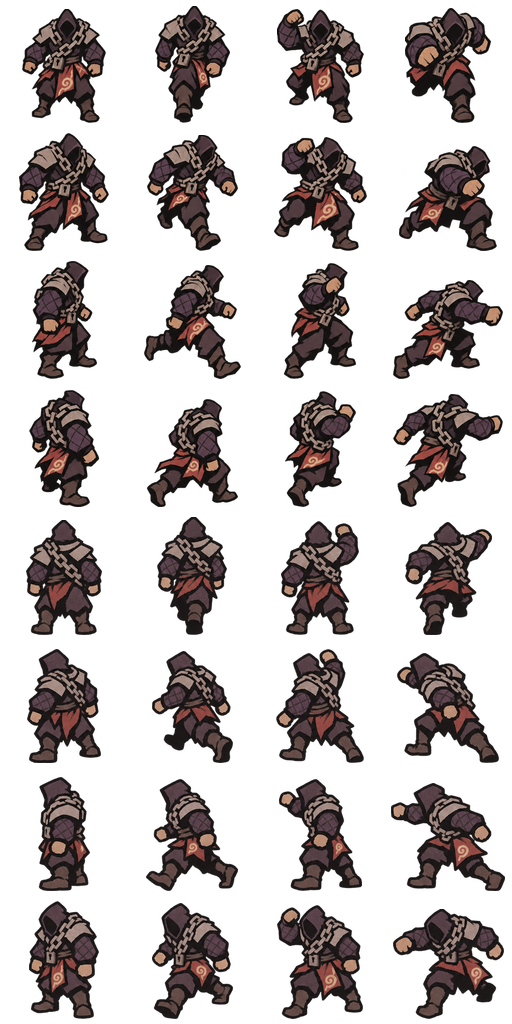
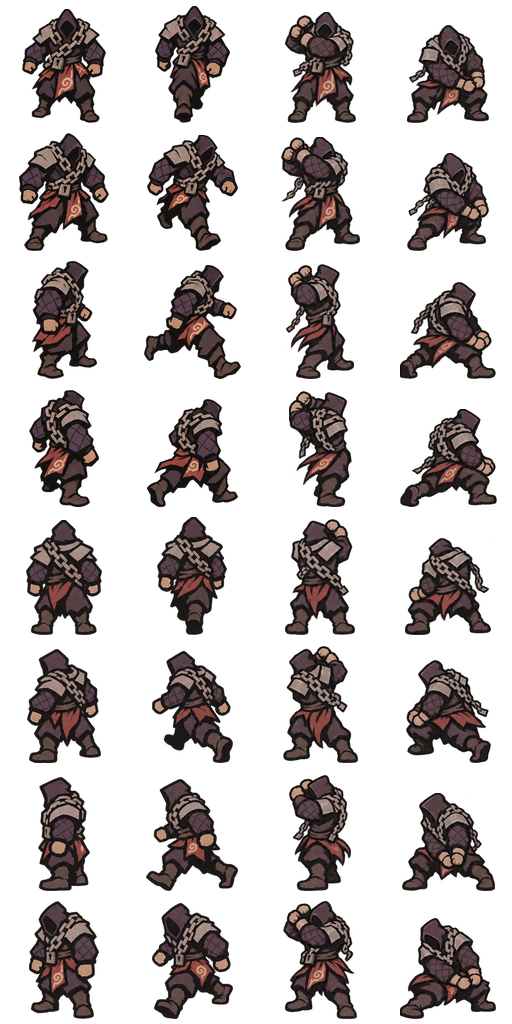
Restore the Chain Warden lash and preserve the Inquisitor art study

Changed region(s): [[0.75, 0.0, 1.0, 1.0], [0.5312, 0.0, 0.7188, 1.0]]

diff --git a/client-unity/UnityProject/Assets/Scripts/Presentation/StormInkManacles.cs b/client-unity/UnityProject/Assets/Scripts/Presentation/StormInkManacles.cs
@@ -1,0 +1,101 @@
+using UnityEngine;
+
+namespace Roguehalla.Client
+{
+    /// <summary>Draws the Warden's weighted chain from the painted hands on its existing melee timeline.</summary>
+    internal sealed class StormInkManacles
+    {
+        const int LinkCount = 9;
+        static Sprite _iron;
+        readonly Transform _root;
+        readonly SpriteRenderer[] _links = new SpriteRenderer[LinkCount];
+
+        public StormInkManacles(Transform parent, Material material)
+        {
+            _root = new GameObject("Warden manacle lash").transform;
+            _root.SetParent(parent, false);
+            if (_iron == null) _iron = PaintLink();
+            for (int i = 0; i < LinkCount; i++)
+            {
+                var link = new GameObject(i == LinkCount - 1 ? "Weighted cuff" : "Iron link " + i);
+                link.transform.SetParent(_root, false);
+                var renderer = link.AddComponent<SpriteRenderer>();
+                renderer.sprite = _iron;
+                renderer.sharedMaterial = material;
+                _links[i] = renderer;
+            }
+        }
+
+        public void Hide() { if (_root.gameObject.activeSelf) _root.gameObject.SetActive(false); }
+
+        public void Draw(Vector2 palm, Vector2 otherPalm, int row, StormInkWeaponMotion.Phase phase,
+            float progress, bool reduced, int order, float alpha)
+        {
+            if (!_root.gameObject.activeSelf) _root.gameObject.SetActive(true);
+            float yaw = (2 - row) * Mathf.PI / 4f;
+            var forward = new Vector2(Mathf.Cos(yaw), -Mathf.Sin(yaw) * ArenaView.GroundSquash);
+            var across = new Vector2(-Mathf.Sin(yaw), -Mathf.Cos(yaw) * ArenaView.GroundSquash);
+            float t = Mathf.Clamp01(progress);
+            var hang = otherPalm + new Vector2(0, -.12f);
+            var lash = palm + forward * .96f + across * .17f - Vector2.up * .07f;
+            var tip = hang;
+            var bend = (palm + tip) * .5f - Vector2.up * .49f;
+            switch (phase)
+            {
+                case StormInkWeaponMotion.Phase.Ready:
+                    tip = palm - forward * .26f - across * .37f + Vector2.up * (.15f + .12f * t);
+                    bend = palm - across * .53f - Vector2.up * .24f;
+                    break;
+                case StormInkWeaponMotion.Phase.Strike:
+                    tip = lash;
+                    bend = (palm + tip) * .5f - across * (reduced ? .08f : .32f * (1f - t));
+                    break;
+                case StormInkWeaponMotion.Phase.Follow:
+                    tip = Vector2.Lerp(lash, hang, Mathf.SmoothStep(0, 1, t));
+                    bend = (palm + tip) * .5f + across * (.16f * (1f - t)) - Vector2.up * (.48f * t);
+                    break;
+            }
+            int baseOrder = order + (row >= 3 && row <= 5 ? -1 : 3);
+            Vector2 start = palm;
+            for (int i = 0; i < LinkCount; i++)
+            {
+                float u = (i + 1f) / LinkCount;
+                var end = Vector2.Lerp(Vector2.Lerp(palm, bend, u), Vector2.Lerp(bend, tip, u), u);
+                var axis = end - start;
+                bool cuff = i == LinkCount - 1;
+                var link = _links[i];
+                link.sortingOrder = baseOrder + (i % 2);
+                link.color = new Color(1, 1, 1, alpha);
+                link.transform.localPosition = (start + end) * .5f;
+                link.transform.localRotation = Quaternion.Euler(0, 0, Mathf.Atan2(axis.y, axis.x) * Mathf.Rad2Deg);
+                link.transform.localScale = new Vector3(Mathf.Max(cuff ? .18f : .064f, axis.magnitude * 1.32f),
+                    cuff ? .139f : i % 2 == 0 ? .081f : .045f, 1);
+                start = end;
+            }
+        }
+
+        // Flat iron faces, a broken cold edge and an ink-black opening survive at gameplay scale.
+        static Sprite PaintLink()
+        {
+            const int n = 64;
+            var texture = new Texture2D(n, n, TextureFormat.RGBA32, false) { name = "Warden iron link",
+                filterMode = FilterMode.Bilinear, wrapMode = TextureWrapMode.Clamp, hideFlags = HideFlags.HideAndDontSave };
+            var pixels = new Color32[n * n];
+            for (int y = 0; y < n; y++)
+            for (int x = 0; x < n; x++)
+            {
+                float u = (x + .5f) * 2 / n - 1, v = (y + .5f) * 2 / n - 1;
+                float d = Mathf.Max(Mathf.Abs(v) * 1.12f, Mathf.Abs(u) * .94f + Mathf.Abs(v) * .34f);
+                if (d > .96f || d < .37f) continue;
+                Color32 ink = new Color32(31, 24, 34, 255), iron = new Color32(156, 142, 151, 255);
+                bool edge = v > .13f && u > -.72f && u < .49f && (u > -.17f || u < -.25f);
+                pixels[y * n + x] = d < .48f || d > .83f ? ink : edge ? new Color32(222, 195, 158, 255) : iron;
+            }
+            texture.SetPixels32(pixels); texture.Apply(false, true);
+            var sprite = Sprite.Create(texture, new Rect(0, 0, n, n), new Vector2(.5f, .5f), n);
+            sprite.name = texture.name;
+            sprite.hideFlags = HideFlags.HideAndDontSave;
+            return sprite;
+        }
+    }
+}

diff --git a/client-unity/UnityProject/Assets/Tests/Editor/StormInkManaclesEditModeTests.cs b/client-unity/UnityProject/Assets/Tests/Editor/StormInkManaclesEditModeTests.cs
@@ -1,0 +1,39 @@
+using NUnit.Framework;
+using Roguehalla.Net;
+using Roguehalla.Net.Protocol;
+using UnityEngine;
+
+namespace Roguehalla.Client.Tests
+{
+    public sealed class StormInkManaclesEditModeTests
+    {
+        [Test]
+        public void AConfirmedWardenLashMovesItsCuffAndLeavesTheSharedSwordAtTheHip()
+        {
+            var root = new GameObject("Warden test");
+            try
+            {
+                var presenter = new SpriteActorPresenter(root.transform, Resources.Load<ShowcaseCatalog>("Showcase/Catalog"));
+                void Show(MobTypeId type, ActorStatus state) => presenter.Present(17, 32, 32, 0, 100, FactionId.Sentenced,
+                    state, WeaponId.Sword, ActorKind.RegionalMob, type, 0, 0, false);
+                presenter.Begin();
+                Show(MobTypeId.ChainWarden, ActorStatus.Alive);
+                var actor = root.transform.GetChild(0);
+                var chain = actor.Find("Warden manacle lash");
+                Assert.IsNotNull(chain);
+                var cuff = chain.Find("Weighted cuff");
+                Assert.AreEqual(9, chain.childCount);
+                var rest = cuff.position;
+                presenter.ConfirmedCue(17, FxKind.Swing, WeaponId.Sword, 0);
+                Show(MobTypeId.ChainWarden, ActorStatus.Alive);
+                Assert.Greater(cuff.position.x - rest.x, .5f, "Facing east releases the weighted cuff into the melee arc");
+                var sword = actor.Find("Equipped weapon cue").GetComponent<SpriteRenderer>();
+                Assert.AreSame(StormInkWeaponArt.Get(WeaponId.Sword, 2), sword.sprite);
+                Assert.Less(sword.sortingOrder, actor.Find("Authored character").GetComponent<SpriteRenderer>().sortingOrder);
+                Show(MobTypeId.Bailiff, ActorStatus.Alive);
+                Assert.IsFalse(chain.gameObject.activeSelf, "A reused actor cannot retain the Warden chain");
+            }
+            finally { Object.DestroyImmediate(root); }
+        }
+    }
+}

diff --git a/client-unity/UnityProject/Assets/Scripts/Presentation/SpriteActorPresenter.CombatCues.cs b/client-unity/UnityProject/Assets/Scripts/Presentation/SpriteActorPresenter.CombatCues.cs
@@ -39,6 +39,29 @@ namespace Roguehalla.Client
             };
         }
 
+        static void PresentManacles(Art a, bool tracked, StormInkWeaponMotion.Phase phase, float progress,
+            float facing, bool reduced, int order)
+        {
+            if (!tracked || a.MobType != MobTypeId.ChainWarden ||
+                !TryWeaponHand(a, false, out var primary) || !TryWeaponHand(a, true, out var support))
+            {
+                a.Manacles?.Hide();
+                return;
+            }
+            int row = StormInkActors.PoseRowForFacing(facing);
+            // The issued sword stays at the belt. The chain the Warden wears is the moving weapon.
+            float side = row >= 4 && row <= 6 ? 1 : -1;
+            var hip = BodySocket(a.Body, new Vector2(.5f + .12f * side, .44f));
+            var rotation = Quaternion.Euler(0, 0, side * 112f);
+            var socket = SpriteSocket(a.Weapon.sprite, StormInkWeaponArt.Grip(WeaponId.Sword, row), a.Weapon.transform.localScale);
+            a.Weapon.transform.localPosition = hip - rotation * socket;
+            a.Weapon.transform.localRotation = rotation;
+            a.Weapon.sortingOrder = order - 2;
+            a.Manacles ??= new StormInkManacles(a.Root.transform, a.Weapon.sharedMaterial);
+            a.Manacles.Draw(BodySocket(a.Body, primary), BodySocket(a.Body, support), row, phase, progress,
+                reduced, order, a.Weapon.color.a);
+        }
+
         static float EquipmentScale(Art a)
         {
             // A bite-mounted focus must clear the drake's ground marker and overhead health bar.
@@ -52,6 +75,7 @@ namespace Roguehalla.Client
             a.HasAttackFacing = a.LocalCue = false;
             a.DrawStartedAt = a.MotionSuccessor = 0;
             a.Bowstring?.Clear(a.Weapon, a.OutBody);
+            a.Manacles?.Hide();
         }
 
         /// <summary>Local click feedback settles the champion into a guard until a delivered cue commits the motion.</summary>

diff --git a/client-unity/UnityProject/Assets/Scripts/Presentation/SpriteActorPresenter.cs b/client-unity/UnityProject/Assets/Scripts/Presentation/SpriteActorPresenter.cs
@@ -673,6 +673,7 @@ namespace Roguehalla.Client
             if (!drawingString) a.Bowstring?.Clear(a.Weapon, a.OutBody);
             a.Weapon.color = weapon == WeaponId.Fists ? new Color(.9f, .86f, .72f, hiddenAlpha) : new Color(1f, 1f, 1f, hiddenAlpha);
             a.Weapon.enabled = !paintedWand && !hauntedFists && !dead && weapon.HasValue && hiddenAlpha > 0f;
+            PresentManacles(a, trackedWeapon && a.Weapon.enabled, phase, weaponProgress, poseFacing, reduced, order);
             BindArtistSources(a, weapon, trackedWeapon ? poseFacing : facing,
                 axeBody != null || swordBody != null || bowBody != null ? fireAxeArt : null, swordBody != null ? fireSwordArt : null,
                 fireBowBodyArt);

diff --git a/client-unity/UnityProject/Assets/Scripts/Presentation/SpriteActorPresenter.ActorArt.cs b/client-unity/UnityProject/Assets/Scripts/Presentation/SpriteActorPresenter.ActorArt.cs
@@ -15,6 +15,7 @@ namespace Roguehalla.Client
             public SpriteOutline[] Plates;
             public SpriteOutline OutBody, OutHp, OutFoot;
             public StormInkBowstring Bowstring;
+            public StormInkManacles Manacles;
             public SpriteRenderer[] BarrierRing;
             public SpriteRenderer[] StatusIcons;
             public ShowcasePointLight Light;

diff --git a/docs/backlog/packets/P-STORM-WARDEN-LASH-1.md b/docs/backlog/packets/P-STORM-WARDEN-LASH-1.md
@@ -1,0 +1,5 @@
+# P-STORM-WARDEN-LASH-1 — Chain Warden manacle lash
+
+Phase 3 item 16a. Replace the owner-rejected presented sword jab with an articulated prison chain attached to the regular Haunted brute. Windup gathers slack, contact casts the weighted cuff and recovery draws it in on the existing sword timing. The same transferable sword remains at the hip.
+
+Own the Warden sheet and palm coordinates, the new manacle renderer, presented gear and its grip registration, the Warden test and this packet. The original eight-way bright/dark render shows the wrong jab. The two-hand oracle fails on the original hands. Check both grounds, measured hip and hand attachment, and a live named camp encounter.
